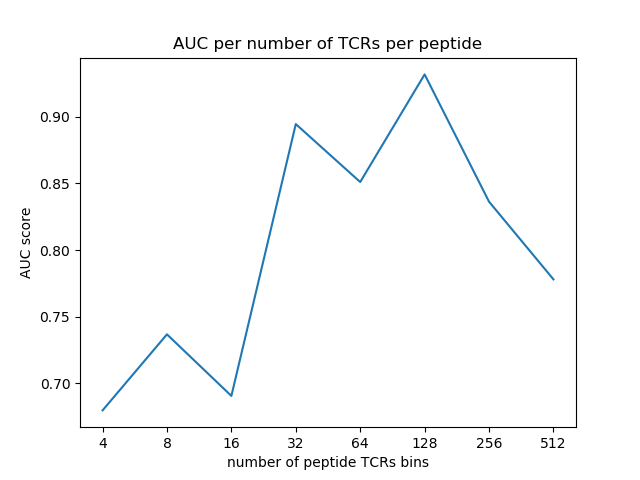
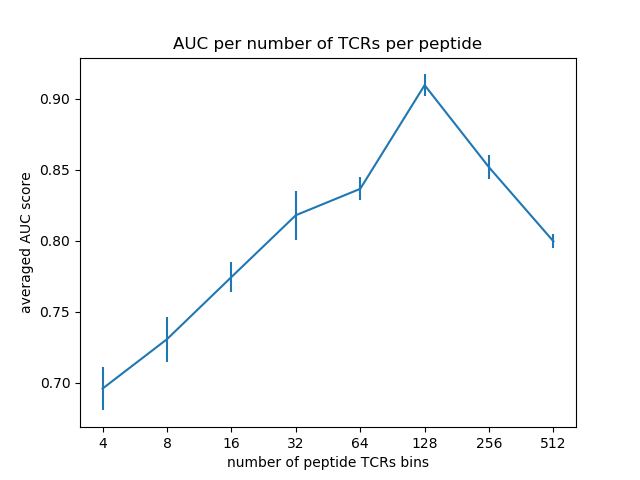
multiple runs for auc per num of tcrs per peptide

diff --git a/auc_per_pep_cd.py b/auc_per_pep_cd.py
@@ -1,4 +1,5 @@
 from ae_pep_cd_test_eval import *
+from scipy import stats
 
 
 def main(argv):
@@ -20,30 +21,94 @@ def main(argv):
     checkpoint = torch.load(args['ae_file'])
     params['max_len'] = checkpoint['max_len']
     params['batch_size'] = checkpoint['batch_size']
-    # load test
-    test_file = argv[1]
-    model_file = argv[2]
-    device = argv[3]
-    with open(test_file, 'rb') as fp:
-        test = pickle.load(fp)
-    # test
-    test_tcrs, test_peps, test_signs = get_lists_from_pairs(test, params['max_len'])
-    test_batches = get_batches(test_tcrs, test_peps, test_signs, tcr_atox, pep_atox, params['batch_size'], params['max_len'])
-    # load model
-    model = AutoencoderLSTMClassifier(params['emb_dim'], device, params['max_len'], 21, params['enc_dim'],
-                                      params['batch_size'], args['ae_file'], params['train_ae'])
-    trained_model = torch.load(model_file)
-    model.load_state_dict(trained_model['model_state_dict'])
-    model.eval()
-    model = model.to(device)
-
     batch_size = params['batch_size']
-    true = []
-    scores = []
-    peps_pos_probs = {}
+
+    directory = 'test_and_models_with_cd/'
+    auc_mat = np.zeros((10, 8))
+    for iteration in range(10):
+        # load test
+        test_file = directory + 'ae_test_w_' + str(iteration)
+        model_file = directory + 'ae_model_w_' + str(iteration)
+        device = argv[1]
+        with open(test_file, 'rb') as fp:
+            test = pickle.load(fp)
+        # test
+        test_tcrs, test_peps, test_signs = get_lists_from_pairs(test, params['max_len'])
+        test_batches = get_batches(test_tcrs, test_peps, test_signs, tcr_atox, pep_atox, params['batch_size'],
+                                   params['max_len'])
+        # load model
+        model = AutoencoderLSTMClassifier(params['emb_dim'], device, params['max_len'], 21, params['enc_dim'],
+                                          params['batch_size'], args['ae_file'], params['train_ae'])
+        trained_model = torch.load(model_file)
+        model.load_state_dict(trained_model['model_state_dict'])
+        model.eval()
+        model = model.to(device)
+
+        peps_pos_probs = {}
+        for i in range(len(test_batches)):
+            batch = test_batches[i]
+            batch_data = test[i * batch_size: (i + 1) * batch_size]
+            tcrs, padded_peps, pep_lens, batch_signs = batch
+            # Move to GPU
+            tcrs = torch.tensor(tcrs).to(device)
+            padded_peps = padded_peps.to(device)
+            pep_lens = pep_lens.to(device)
+            probs = model(tcrs, padded_peps, pep_lens)
+            peps = [data[1] for data in batch_data]
+            # cd = [data[2] for data in batch_data]
+            for pep, prob, sign in zip(peps, probs, batch_signs):
+                try:
+                    peps_pos_probs[pep].append((prob.item(), sign))
+                except KeyError:
+                    peps_pos_probs[pep] = [(prob.item(), sign)]
+        bins = {}
+        for pep in peps_pos_probs:
+            num_examples = len(peps_pos_probs[pep])
+            bin = int(np.floor(np.log2(num_examples)))
+            try:
+                bins[bin].extend(peps_pos_probs[pep])
+            except KeyError:
+                bins[bin] = peps_pos_probs[pep]
+        for bin in bins:
+            pass
+            # print(bin, len(bins[bin]))
+        bin_aucs = {}
+        for bin in bins:
+            try:
+                auc = roc_auc_score([p[1] for p in bins[bin]], [p[0] for p in bins[bin]])
+                bin_aucs[bin] = auc
+                # print(bin, auc)
+            except ValueError:
+                # print(bin, [p[1] for p in bins[bin]])
+                pass
+        bin_aucs = sorted(bin_aucs.items())
+        print(bin_aucs)
+        auc_mat[iteration] = np.array([t[1] for t in bin_aucs])
+        pass
+    # print(auc_mat)
+    means = np.mean(auc_mat, axis=0)
+    std = stats.sem(auc_mat, axis=0)
+    print(means, std)
+    plt.errorbar([j[0] for j in bin_aucs], means, yerr=std)
+    plt.xticks([j[0] for j in bin_aucs], [2 ** j[0] for j in bin_aucs])
+    plt.xlabel('number of peptide TCRs bins')
+    plt.ylabel('averaged AUC score')
+    plt.title('AUC per number of TCRs per peptide')
+    plt.show()
+
+    '''
+    tcr_cd = {}
+    for sample in test:
+        tcr = sample[0]
+        cd = sample[2]
+        sign = sample[3]
+        if sign is 'p':
+            tcr_cd[tcr] = cd
+    # print(tcr_cd)
+    cd_probs = {}
     for i in range(len(test_batches)):
         batch = test_batches[i]
-        batch_data = test[i * batch_size : (i+1) * batch_size]
+        batch_data = test[i * batch_size: (i + 1) * batch_size]
         tcrs, padded_peps, pep_lens, batch_signs = batch
         positive_indexes = [i for i in range(batch_size) if batch_signs[i] == 1.0]
         # Move to GPU
@@ -51,61 +116,31 @@ def main(argv):
         padded_peps = padded_peps.to(device)
         pep_lens = pep_lens.to(device)
         probs = model(tcrs, padded_peps, pep_lens)
-        peps = [data[1] for data in batch_data]
-        # cd = [data[2] for data in batch_data]
-        for pep, prob, sign in zip(peps, probs, batch_signs):
+        tcrs = [data[0] for data in batch_data]
+        for tcr, prob, sign in zip(tcrs, probs, batch_signs):
             try:
-                peps_pos_probs[pep].append((prob.item(), sign))
+                cd_probs[tcr_cd[tcr]].append((prob.item(), sign))
             except KeyError:
-                peps_pos_probs[pep] = [(prob.item(), sign)]
-    bins = {}
-    for pep in peps_pos_probs:
-        num_examples = len(peps_pos_probs[pep])
-        bin = int(np.floor(np.log2(num_examples)))
+                cd_probs[tcr_cd[tcr]] = [(prob.item(), sign)]
+    cd_aucs = {}
+    for cd in cd_probs:
         try:
-            bins[bin].extend(peps_pos_probs[pep])
-        except KeyError:
-            bins[bin] = peps_pos_probs[pep]
-    for bin in bins:
-        print(bin, len(bins[bin]))
-    bin_aucs = {}
-    for bin in bins:
-        try:
-            auc = roc_auc_score([p[1] for p in bins[bin]], [p[0] for p in bins[bin]])
-            bin_aucs[bin] = auc
+            auc = roc_auc_score([p[1] for p in cd_probs[cd]], [p[0] for p in cd_probs[cd]])
+            cd_aucs[cd] = auc
             # print(bin, auc)
         except ValueError:
             # print(bin, [p[1] for p in bins[bin]])
             pass
-    bin_aucs = sorted(bin_aucs.items())
-    print(bin_aucs)
+    cd_aucs = sorted(cd_aucs.items())
+    print(cd_aucs)
+    exit()
     plt.plot([j[0] for j in bin_aucs], [j[1] for j in bin_aucs])
     plt.xticks([j[0] for j in bin_aucs], [2 ** j[0] for j in bin_aucs])
     plt.xlabel('number of peptide TCRs bins')
     plt.ylabel('AUC score')
     plt.title('AUC per number of TCRs per peptide')
     plt.show()
-
-
-
-def evaluate(model, batches, device):
-    model.eval()
-    true = []
-    scores = []
-    shuffle(batches)
-    for batch in batches:
-        tcrs, padded_peps, pep_lens, batch_signs = batch
-        # Move to GPU
-        tcrs = torch.tensor(tcrs).to(device)
-        padded_peps = padded_peps.to(device)
-        pep_lens = pep_lens.to(device)
-        probs = model(tcrs, padded_peps, pep_lens)
-        true.extend(np.array(batch_signs).astype(int))
-        scores.extend(probs.cpu().data.numpy())
-    # Return auc score
-    auc = roc_auc_score(true, scores)
-    fpr, tpr, thresholds = roc_curve(true, scores)
-    return auc, (fpr, tpr, thresholds)
+    '''
 
 
 if __name__ == '__main__':

diff --git a/ae_pep_cd_test_eval.py b/ae_pep_cd_test_eval.py
@@ -217,39 +217,37 @@ def main(argv):
     params['max_len'] = checkpoint['max_len']
     params['batch_size'] = checkpoint['batch_size']
 
-    # Load data
-    pairs_file = 'McPAS-with_CD'
-    if argv[-1] == 'shugay':
-        pairs_file = ''
-    train, test = d.load_data(pairs_file)
-    # save random test
-    with open(args['test_file'], 'wb') as fp:
-        pickle.dump(test, fp)
+    dir = 'test_and_models_with_cd/'
 
-    # train
-    train_tcrs, train_peps, train_signs = get_lists_from_pairs(train, params['max_len'])
-    train_batches = get_batches(train_tcrs, train_peps, train_signs, tcr_atox, pep_atox, params['batch_size'], params['max_len'])
+    iterations = 10
+    for iteration in range(iterations):
+        # Load data
+        pairs_file = 'McPAS-with_CD'
+        if argv[-1] == 'shugay':
+            pairs_file = ''
+        train, test = d.load_data(pairs_file)
+        # save random test
+        with open(dir + args['test_file'] + '_' + str(iteration), 'wb') as fp:
+            pickle.dump(test, fp)
 
-    # test
-    test_tcrs, test_peps, test_signs = get_lists_from_pairs(test, params['max_len'])
-    test_batches = get_batches(test_tcrs, test_peps, test_signs, tcr_atox, pep_atox, params['batch_size'], params['max_len'])
+        # train
+        train_tcrs, train_peps, train_signs = get_lists_from_pairs(train, params['max_len'])
+        train_batches = get_batches(train_tcrs, train_peps, train_signs, tcr_atox, pep_atox, params['batch_size'],
+                                    params['max_len'])
 
-    # Train the model
-    model, best_auc, best_roc = train_model(train_batches, test_batches, device, args, params)
+        # test
+        test_tcrs, test_peps, test_signs = get_lists_from_pairs(test, params['max_len'])
+        test_batches = get_batches(test_tcrs, test_peps, test_signs, tcr_atox, pep_atox, params['batch_size'],
+                                   params['max_len'])
 
-    # Save trained model
-    torch.save({
-                'model_state_dict': model.state_dict(),
-                }, argv[2])
-    '''
-    with open('outfile', 'wb') as fp:
-        pickle.dump(itemlist, fp)
-    To read it back:
+        # Train the model
+        model, best_auc, best_roc = train_model(train_batches, test_batches, device, args, params)
 
-    with open('outfile', 'rb') as fp:
-        itemlist = pickle.load(fp)
-    '''
-
+        # Save trained model
+        torch.save({
+            'model_state_dict': model.state_dict(),
+        }, dir + argv[2] + '_' + str(iteration))
+        pass
     pass
 
 
